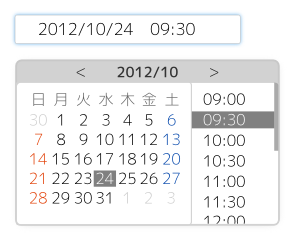
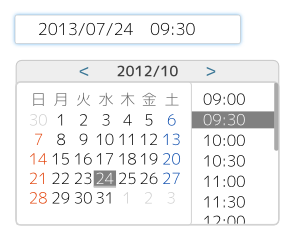
Change: Improve design (header, container)
WCAG 2.0 Contrast checked

Changed region(s): [[0.031, 0.2333, 0.9931, 0.35], [0.2172, 0.0875, 0.3724, 0.1458], [0.3103, 0.7583, 0.4034, 0.7875]]

diff --git a/jquery.simple-dtpicker.css b/jquery.simple-dtpicker.css
@@ -6,14 +6,14 @@
 .datepicker {
     display: inline-block;
 	
-	border: 2px solid #c8c8c8;
+	border: 1px solid #dfdfdf;
 	
-	border-radius: 5px;
-		-webkit-border-radius: 5px;  
-		-moz-border-radius: 5px;
-	box-shadow: 0.5px 0.5px 3px #c8c8c8;
-		-webkit-box-shadow: 0.5px 0.5px 3px #c8c8c8;
-		-moz-box-shadow: 0.5px 0.5px 3px #c8c8c8;
+	border-radius: 3px;
+		-webkit-border-radius: 3px;  
+		-moz-border-radius: 3px;
+	box-shadow: 0.5px 0.5px 0px #c8c8c8;
+		-webkit-box-shadow: 0.5px 0.5px 3px #eeeeee;
+		-moz-box-shadow: 0.5px 0.5px 3px #eeeeee;
 }
 
 /*
@@ -25,11 +25,14 @@
 	padding-bottom: 2px;
 	padding-left:	5px;
 	padding-right: 5px;
-	background-color:	#d2d2d2;
+	background-color:	#eeeeee;
 	color: #3f3f3f;
 	text-align: center;
 	font-size: 9pt;
 	font-weight: bold;
+	user-select: none;
+		-webkit-user-select: none;
+		-moz-user-select: none;
 }
 
 .datepicker > .datepicker_header > a{
@@ -37,7 +40,7 @@
 		-webkit-user-select: none;
 		-moz-user-select: none;
 	cursor: pointer;
-	color: #559abd;
+	color: #3b7796;
 }
 
 .datepicker > .datepicker_header > a:hover {
@@ -63,16 +66,16 @@
 */
 
 .datepicker > .datepicker_inner_container {
-	margin: -2px -2px -2px -2px;
+	margin: -2px -1px -2px -1px;
 	background-color: #d2d2d2;
-	border: 2px solid #c8c8c8;
-	border-radius: 5px;
-		-webkit-border-radius: 5px;  
-		-moz-border-radius: 5px;
+	border: 1px solid #c8c8c8;
+	border-radius: 3px;
+		-webkit-border-radius: 3px;  
+		-moz-border-radius: 3px;
 
-	box-shadow: 0.5px 0px 5px #c8c8c8;
-		-webkit-box-shadow: 0.5px 0px 5px #c8c8c8;
-		-moz-box-shadow: 0.5px 0px 5px #c8c8c8;
+	box-shadow: 0.5px 0px 3px #c8c8c8;
+		-webkit-box-shadow: 0.5px 0px 3px #c8c8c8;
+		-moz-box-shadow: 0.5px 0px 3px #c8c8c8;
 }
 
 .datepicker > .datepicker_inner_container:after {
@@ -99,12 +102,12 @@
 	border: 1px solid #c8c8c8;
 	
 	border-top:none;
-	border-top-left-radius: 5px;
-	border-bottom-left-radius: 5px;
-		-webkit-border-top-left-radius:	5px;
-		-webkit-border-bottom-left-radius: 5px;
-		-moz-border-radius-topleft:		5px;
-		-moz-border-radius-bottomleft:	5px;
+	border-top-left-radius: 3px;
+	border-bottom-left-radius: 3px;
+		-webkit-border-top-left-radius:	3px;
+		-webkit-border-bottom-left-radius: 3px;
+		-moz-border-radius-topleft:		3px;
+		-moz-border-radius-bottomleft:	3px;
 }
 
 .datepicker > .datepicker_inner_container > .datepicker_calendar > table {
@@ -184,12 +187,12 @@
 	
 	background-color:	#ffffff;
 	
-	border-top-right-radius: 4px;
-	border-bottom-right-radius: 4px;
-	-webkit-border-top-right-radius:	4px;
-	-webkit-border-bottom-right-radius: 4px;
-	-moz-border-radius-topright:		4px;
-	-moz-border-radius-bottomright:	4px;
+	border-top-right-radius: 3px;
+	border-bottom-right-radius: 3px;
+	-webkit-border-top-right-radius:	3px;
+	-webkit-border-bottom-right-radius: 3px;
+	-moz-border-radius-topright:		3px;
+	-moz-border-radius-bottomright:	3px;
 }
 
 /*
@@ -207,12 +210,12 @@
 	width: 6px;
 	background: #fafafa;
 	
-	border-top-right-radius: 5px;
-	border-bottom-right-radius: 5px;
-	-webkit-border-top-right-radius:	5px;
-	-webkit-border-bottom-right-radius: 5px;
-	-moz-border-radius-topright:		5px;
-	-moz-border-radius-bottomright:	5px;
+	border-top-right-radius: 3px;
+	border-bottom-right-radius: 3px;
+	-webkit-border-top-right-radius:	3px;
+	-webkit-border-bottom-right-radius: 3px;
+	-moz-border-radius-topright:		3px;
+	-moz-border-radius-bottomright:	3px;
 }
 
 .datepicker > .datepicker_inner_container > .datepicker_timelist::-webkit-scrollbar:horizontal {
